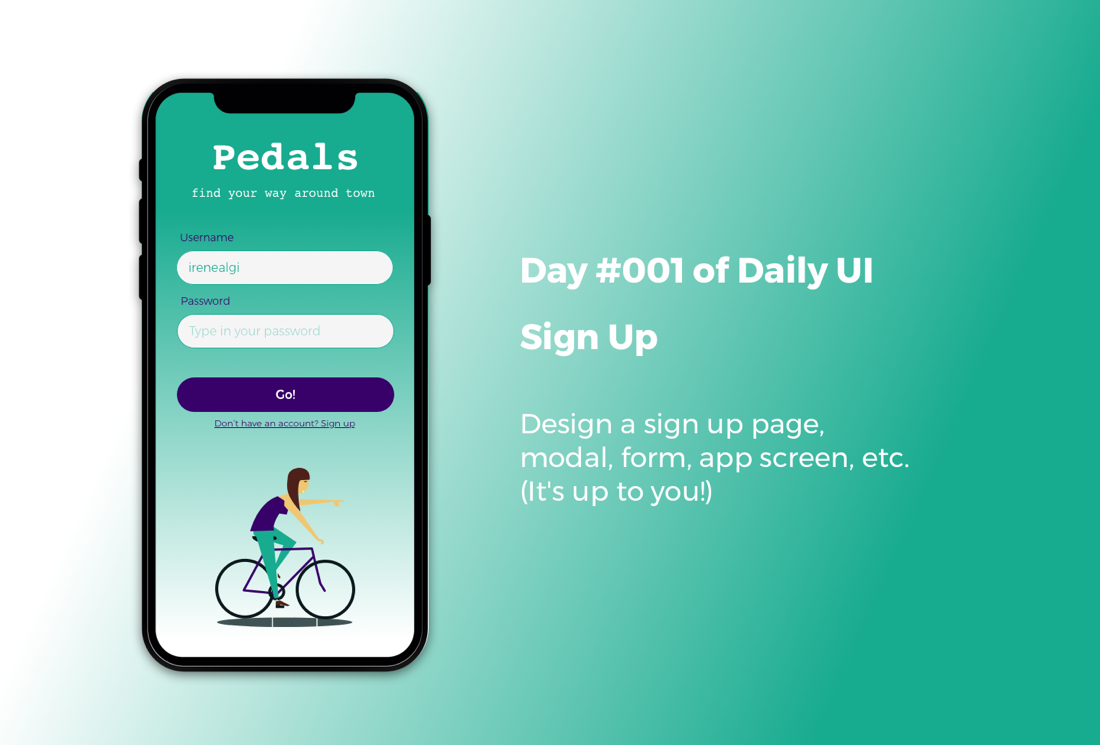
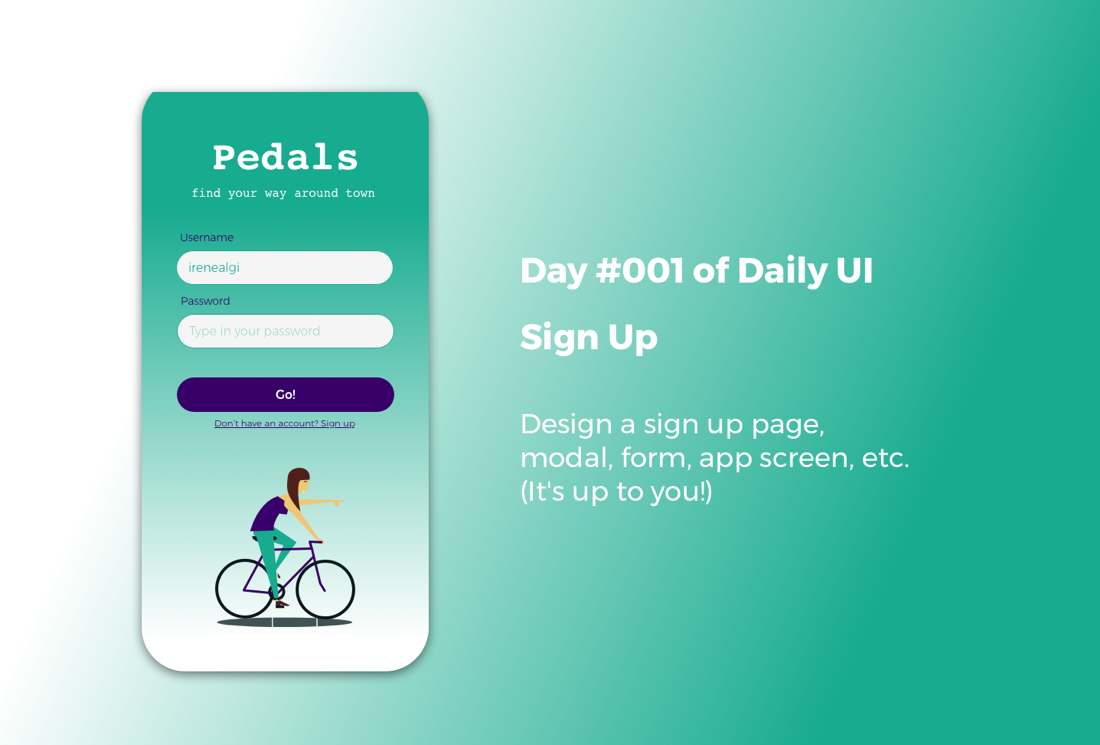
uploading animation (and adding handle to bike)
Former-commit-id: 93efad48a56b6ec00395b95fd5178e747f103d06

Changed region(s): [[0.1236, 0.0926, 0.4018, 0.9262]]

diff --git a/100-days-UI.md b/100-days-UI.md
@@ -8,7 +8,7 @@ As part of a plan to improve on my UI skills, I have decided to go through the [
 #### Day 03 | Landing page | 50 mins
 Very simple landing page for a social network for female travelers looking for companionship during their time abroad. There's not much to it, but LOVED the image, so – yeah. 
 
-![](images/case_studies/30_days_challenge/day_3.png)
+![](images/case_studies/30_days_challenge/day_3.gif)
 
 
 #### Day 02 | Credit card checkout | 3-4 hrs
